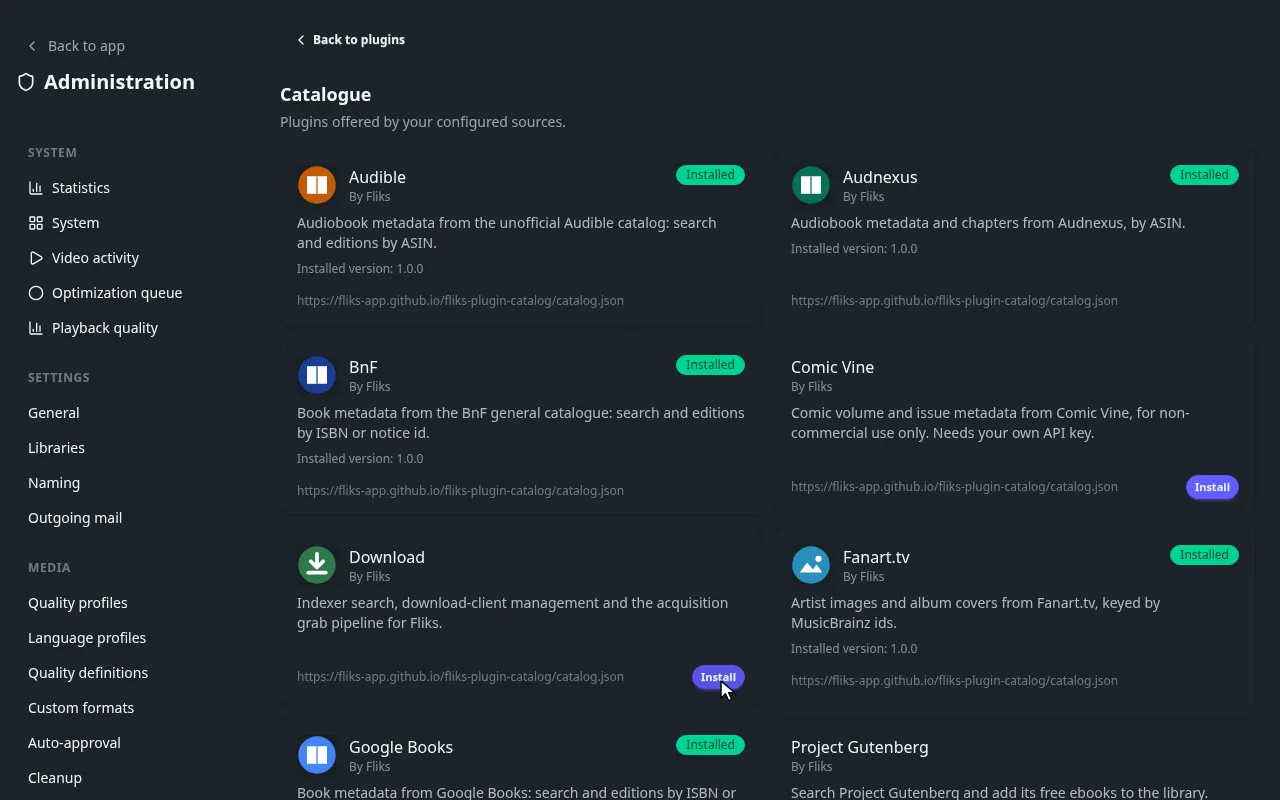
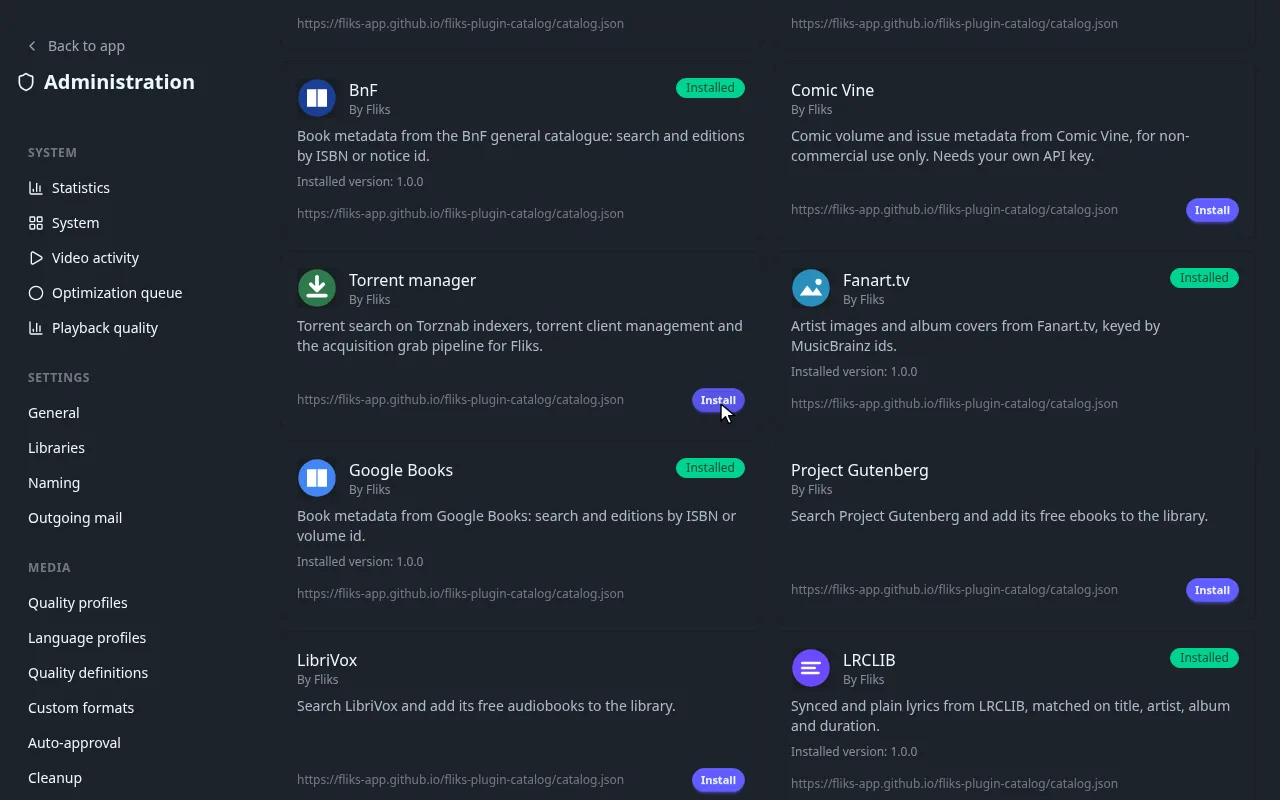
docs(downloads): list the download plugin pages under their own sub-heading (#22)
* docs(downloads): list the download plugin pages under their own sub-heading

The Downloads section mixed server pages with plugin pages. A page can now set a frontmatter
group, listed as a sub-heading in the sidebar.

* docs(downloads): call the plugin Torrent manager

The plugin is renamed in its 3.1.0 release; its admin sidebar section follows the name.

* docs(downloads): re-shoot the screenshots that showed the old plugin name

The admin sidebar, plugin page, catalogue card and consent dialog now read Torrent manager.

diff --git a/src/app/layout/sidebar/sidebar.html b/src/app/layout/sidebar/sidebar.html
@@ -16,8 +16,13 @@
               ></svg>
             </summary>
             <ul class="my-1 ms-3 flex flex-col gap-px border-s border-base-300">
-              @for (page of section.pages; track page.url) {
-                <li>
+              @for (page of section.pages; track page.url; let i = $index) {
+                @if (page.subgroup && page.subgroup !== section.pages[i - 1]?.subgroup) {
+                  <li class="mt-2 ps-3 pb-0.5 text-xs font-semibold uppercase tracking-wide text-base-content/50">
+                    {{ page.subgroup }}
+                  </li>
+                }
+                <li [class.ms-3]="page.subgroup">
                   <a
                     [routerLink]="page.url"
                     class="-ms-px block border-s-2 py-1 ps-3 pe-2 leading-snug transition-colors"

diff --git a/src/content/07-downloads/11-indexers.md b/src/content/07-downloads/11-indexers.md
@@ -1,10 +1,11 @@
 ---
-title: Download indexers
-description: Add the trackers the Download plugin searches, by importing them from Prowlarr or Jackett or by typing a Torznab address.
+title: Indexers
+group: Torrent manager
+description: Add the trackers Torrent manager searches, by importing them from Prowlarr or Jackett or by typing a Torznab address.
 ---
 
 > [!SUMMARY]
-> An indexer is a Torznab address the Download plugin searches. The shortest path: in **Settings > Download > Indexer sources**, connect your Prowlarr or Jackett once and every tracker comes in. With a single Torznab address, add the indexer by hand instead. Both end in **Settings > Download > Indexers**.
+> An indexer is a Torznab address Torrent manager searches. The shortest path: in **Settings > Torrent manager > Indexer sources**, connect your Prowlarr or Jackett once and every tracker comes in. With a single Torznab address, add the indexer by hand instead. Both end in **Settings > Torrent manager > Indexers**.
 
 An **indexer** is a Torznab endpoint: a web address and an API key that answer "which releases match this title". The plugin queries every enabled indexer, in parallel, each time it searches. An imported indexer is an ordinary row you can edit, disable or delete.
 
@@ -30,7 +31,7 @@ If you changed Prowlarr's **URL Base** or Jackett's **Base path override**, add 
 
 ## Import from Prowlarr or Jackett
 
-Open **Settings > Download > Indexer sources**. A source is a saved connection to Prowlarr or Jackett: it holds the way to read trackers, not the trackers.
+Open **Settings > Torrent manager > Indexer sources**. A source is a saved connection to Prowlarr or Jackett: it holds the way to read trackers, not the trackers.
 
 ### Prowlarr
 
@@ -45,7 +46,7 @@ You need its address and its API key (in Prowlarr, **Settings > General > Securi
 Then connect Fliks:
 
 :::steps
-![In Fliks, **Settings > Download > Indexer sources**, click **New source**](/img/download-source-prowlarr-1-new.webp)
+![In Fliks, **Settings > Torrent manager > Indexer sources**, click **New source**](/img/download-source-prowlarr-1-new.webp)
 ![Name it, keep **Type** on **Prowlarr**, type the **Base URL** and paste the **API key**, then **Test connection**](/img/download-source-prowlarr-2-form.webp)
 ![**Indexer list read, connection OK** means both are right. Click **Save**](/img/download-source-prowlarr-3-test.webp)
 ![Saving imports straight away. **Import the indexers** reads the list again later](/img/download-source-prowlarr-4-saved.webp)
@@ -113,7 +114,7 @@ With a password you can also remove it in Jackett (empty **Admin password**, **S
 Use this for a tracker with its own Torznab address, for Jackett with a password, or to test. You need the **Base URL** of the feed and its **API key**. In Jackett, **Copy Torznab Feed** on the tracker's row gives the URL.
 
 :::steps
-![In **Settings > Download > Indexers**, click **New indexer**](/img/download-indexer-manual-1-new.webp)
+![In **Settings > Torrent manager > Indexers**, click **New indexer**](/img/download-indexer-manual-1-new.webp)
 ![Type a **Name**, the **Base URL** of the Torznab feed and the **API key**](/img/download-indexer-manual-2-form.webp)
 ![Adjust the other options if needed, then click **Test connection**](/img/download-indexer-manual-3-options.webp)
 ![**Capabilities read, connection OK**: click **Save**](/img/download-indexer-manual-4-test.webp)

diff --git a/src/content/07-downloads/10-plugin.md b/src/content/07-downloads/10-plugin.md
@@ -1,10 +1,11 @@
 ---
-title: Download plugin
-description: What the Download plugin does, what to set up before it can fetch anything, and how a request turns into a file in your library.
+title: Set up the plugin
+group: Torrent manager
+description: What Torrent manager does, what to set up before it can fetch anything, and how a request turns into a file in your library.
 ---
 
 > [!SUMMARY]
-> The Download plugin turns an approved request into a file in your library: it searches your indexers, picks the best release, hands it to your download client and files the result. Install it from **Settings > Plugins** once the [setup order](/downloads/overview#order-to-set-things-up) is done. Without it requests stay approved forever.
+> Torrent manager turns an approved request into a file in your library: it searches your indexers, picks the best release, hands it to your download client and files the result. Install it from **Settings > Plugins** once the [setup order](/downloads/overview#order-to-set-things-up) is done. Without it requests stay approved forever.
 
 Its pages: [Indexers](/downloads/indexers), [Download clients](/downloads/download-clients), [Settings](/downloads/plugin-settings), [Troubleshooting](/downloads/troubleshooting).
 
@@ -18,7 +19,7 @@ Install it from the catalogue with the admin account. Keep **Reach services on t
 
 :::steps
 ![Open **Settings > Advanced > Plugins** and click **Search for a plugin**](/img/download-install-1-plugins.webp)
-![Click **Install** on the **Download** card](/img/download-install-2-catalogue.webp)
+![Click **Install** on the **Torrent manager** card](/img/download-install-2-catalogue.webp)
 ![Read the consent list, then click **Install**](/img/download-install-3-consent.webp)
 :::
 
@@ -30,14 +31,14 @@ Trust badges and sources are in [Plugins](/administration/plugins).
 | What | Where |
 |---|---|
 | The plugin card, **Disable**, **Export**, **Uninstall** | **Settings > Advanced > Plugins**, click **Download** |
-| General options | **Settings > Download > General** |
-| Indexers and indexer sources | **Settings > Download > Indexers** and **Indexer sources** |
-| Download clients | **Settings > Download > Download clients** |
+| General options | **Settings > Torrent manager > General** |
+| Indexers and indexer sources | **Settings > Torrent manager > Indexers** and **Indexer sources** |
+| Download clients | **Settings > Torrent manager > Download clients** |
 | Provider order and search interval | **Settings > Downloads**, see [Downloads](/downloads/automatic-search) |
 | Requests, queue, history, calendar | **Downloads** section of the main sidebar |
 | Search for a release yourself | A title's **⋮** menu, **Files** |
 
-![The Download plugin page, with Disable, Export and Uninstall](/img/download-plugin-page.webp)
+![Torrent manager page, with Disable, Export and Uninstall](/img/download-plugin-page.webp)
 
 > [!WARNING]
 > The **Downloads** item under **Library** in the main sidebar is something else: it lists the

diff --git a/src/content/07-downloads/13-plugin-settings.md b/src/content/07-downloads/13-plugin-settings.md
@@ -1,17 +1,18 @@
 ---
-title: Download settings
-description: Every option of the Download plugin, with its default: search time, stalled-download cleanup, seeding, cooldowns and where each one lives.
+title: Plugin settings
+group: Torrent manager
+description: Every option of Torrent manager, with its default: search time, stalled-download cleanup, seeding, cooldowns and where each one lives.
 ---
 
 > [!SUMMARY]
-> The Download plugin has few options of its own: pause automatic downloads, how long a search waits, and optional stalled-download cleanup, all in **Settings > Download > General**. Everything else lives on indexers, clients, profiles and **Settings > Downloads**.
+> Torrent manager has few options of its own: pause automatic downloads, how long a search waits, and optional stalled-download cleanup, all in **Settings > Torrent manager > General**. Everything else lives on indexers, clients, profiles and **Settings > Downloads**.
 
 The plugin's own options are few. Most of what changes its behaviour sits in four places:
 
 :::details Where each download option lives
 | Where | What it holds |
 |---|---|
-| **Settings > Download > General** | The options on this page: pause, search time, stalled-download cleanup. |
+| **Settings > Torrent manager > General** | The options on this page: pause, search time, stalled-download cleanup. |
 | [Indexers](/downloads/indexers#indexer-options) | Per tracker: request delay, which searches use it, minimum seeders, seeding limits, priority. |
 | [Download clients](/downloads/download-clients#client-options) | Per client: address, categories, priority. |
 | **Settings > Downloads** | Fliks's own search schedule and provider order, see [Downloads](/downloads/automatic-search). |
@@ -23,7 +24,7 @@ the [quality definitions](/downloads/quality-definitions) and the
 
 ## General
 
-Open **Settings > Download > General** and click **Save** after any change.
+Open **Settings > Torrent manager > General** and click **Save** after any change.
 
 ### Search
 

diff --git a/src/content/07-downloads/12-download-clients.md b/src/content/07-downloads/12-download-clients.md
@@ -1,10 +1,11 @@
 ---
 title: Download clients
-description: Connect qBittorrent or Transmission to the Download plugin, and share the download folder so Fliks can import what the client fetched.
+group: Torrent manager
+description: Connect qBittorrent or Transmission to Torrent manager, and share the download folder so Fliks can import what the client fetched.
 ---
 
 > [!SUMMARY]
-> Add qBittorrent or Transmission in **Settings > Download > Download clients**: host, port, username and password, then **Test connection**. The one mistake to avoid: the client's save folder must be mounted under the same path in both containers (see The shared folder).
+> Add qBittorrent or Transmission in **Settings > Torrent manager > Download clients**: host, port, username and password, then **Test connection**. The one mistake to avoid: the client's save folder must be mounted under the same path in both containers (see The shared folder).
 
 A **download client** downloads the torrent: **qBittorrent** (Web UI) or **Transmission** 3.0 or later. Fliks sends a release, follows its progress and reads the finished file from the client's download folder, so both must agree on a folder: see [The shared folder](#the-shared-folder) before you click **Save**.
 
@@ -28,7 +29,7 @@ qBittorrent's own options.
 
 ## Add qBittorrent in Fliks
 
-Open **Settings > Download > Download clients**.
+Open **Settings > Torrent manager > Download clients**.
 
 :::steps
 ![Click **New download client**](/img/download-client-qbit-1-new.webp)

diff --git a/src/content/07-downloads/14-troubleshooting.md b/src/content/07-downloads/14-troubleshooting.md
@@ -1,5 +1,6 @@
 ---
-title: Download troubleshooting
+title: Plugin troubleshooting
+group: Torrent manager
 description: Why a title is not downloading, what each test message and queue state means, and how to fix the usual setup mistakes.
 ---
 
@@ -14,7 +15,7 @@ Check these in order, on the title that does not move.
 2. **The title is monitored and has a quality profile.** A title with no
    [quality profile](/downloads/quality-profiles) is never searched. Set the library's defaults, see
    [What you need first](/downloads/plugin#what-you-need-first).
-3. **Automatic downloads are not paused.** **Settings > Download > General**, **Pause automatic downloads** is off.
+3. **Automatic downloads are not paused.** **Settings > Torrent manager > General**, **Pause automatic downloads** is off.
 4. **An indexer is active** and its **Use for** includes **Automatic searches**, and **a download client is active.**
    Without a client the grab fails with *No enabled download client is configured*.
 5. **A release exists.** On the title, **⋮ > Files > Search manually**. If the list is empty, the indexers found

diff --git a/src/content/07-downloads/01-overview.md b/src/content/07-downloads/01-overview.md
@@ -19,7 +19,7 @@ description: Who needs the optional download side of Fliks, who can skip it, and
 3. Pick both as the defaults of your library: **Settings > Libraries**, open the library, **Default quality profile** and **Default language profile**. A title with no quality profile is never searched. See [Quality and language profiles](/features/libraries#quality-and-language-profiles).
 
    ![The library settings: Default quality profile and Default language profile](/img/download-library-profiles.webp)
-4. [Download plugin](/downloads/plugin): install it, nothing is downloaded without it.
+4. [Torrent manager](/downloads/plugin): install it, nothing is downloaded without it.
 5. [Indexers](/downloads/indexers): where releases are searched.
 6. [Download client](/downloads/download-clients): qBittorrent or Transmission, and the shared folder.
 7. [Requests](/downloads/requests): how people ask for titles and who approves them.

diff --git a/src/content/06-administration/02-settings.md b/src/content/06-administration/02-settings.md
@@ -42,7 +42,7 @@ The entry needs the `settings.access` permission and never shows on a TV. These 
 | [Auto-approval](/downloads/auto-approval) | Rules that approve [requests](/downloads/requests) automatically. |
 | [Cleanup](/administration/library-cleanup) | Rules that flag and remove stale media. Destructive. |
 | [Metadata](/administration/metadata-settings) | Metadata providers and the order they are asked in. |
-| [Downloads](/downloads/automatic-search) | Provider order and how often missing titles are searched. Needs the [Download plugin](/downloads/plugin). |
+| [Downloads](/downloads/automatic-search) | Provider order and how often missing titles are searched. Needs the [Torrent manager](/downloads/plugin). |
 | [Lyrics](/administration/lyrics-and-karaoke#lyrics) | Automatic lyrics for music libraries. |
 | [Karaoke](/administration/lyrics-and-karaoke#karaoke) | Voice separation and word-by-word lyrics. |
 

diff --git a/src/content/07-downloads/07-automatic-search.md b/src/content/07-downloads/07-automatic-search.md
@@ -1,10 +1,10 @@
 ---
-title: Downloads
+title: Automatic search
 description: Choose which download provider is asked first, how often missing and upgradable titles are searched, and what happens to extra album tracks.
 ---
 
 > [!SUMMARY]
-> **Settings > Downloads** sets the order of download providers, how often Fliks searches for missing or upgradable titles (every 6 hours by default) and what to do with unrequested album tracks. Only for [requests](/downloads/requests) or the Download plugin: Fliks itself never downloads, a provider plugin does.
+> **Settings > Downloads** sets the order of download providers, how often Fliks searches for missing or upgradable titles (every 6 hours by default) and what to do with unrequested album tracks. Only for [requests](/downloads/requests) or Torrent manager: Fliks itself never downloads, a provider plugin does.
 
 ## Set the automatic search
 

diff --git a/src/content/07-downloads/05-requests.md b/src/content/07-downloads/05-requests.md
@@ -4,7 +4,7 @@ description: Let household members ask for a title to be added, or for one to be
 ---
 
 > [!SUMMARY]
-> A request lets someone ask for a title without adding it to the library themselves. Search for it, click request, choose the library and profiles, then someone with **Manage requests** approves it (or an [auto-approval rule](/downloads/auto-approval) does). Actually fetching the file needs the [Download plugin](/downloads/plugin).
+> A request lets someone ask for a title without adding it to the library themselves. Search for it, click request, choose the library and profiles, then someone with **Manage requests** approves it (or an [auto-approval rule](/downloads/auto-approval) does). Actually fetching the file needs the [Torrent manager](/downloads/plugin).
 
 ## Request a title
 

diff --git a/src/content/07-downloads/02-quality-profiles.md b/src/content/07-downloads/02-quality-profiles.md
@@ -4,7 +4,7 @@ description: Choose which release qualities Fliks may download for a title, how 
 ---
 
 > [!SUMMARY]
-> A quality profile says which release qualities Fliks may download for a title and when it stops looking for something better. Needed only for [requests](/downloads/requests) or the Download plugin: playback never reads it. Create one in **Settings > Quality profiles**: a name, a cutoff, and the qualities you accept.
+> A quality profile says which release qualities Fliks may download for a title and when it stops looking for something better. Needed only for [requests](/downloads/requests) or Torrent manager: playback never reads it. Create one in **Settings > Quality profiles**: a name, a cutoff, and the qualities you accept.
 
 ## Create a quality profile
 

diff --git a/src/content/07-downloads/03-quality-definitions.md b/src/content/07-downloads/03-quality-definitions.md
@@ -4,7 +4,7 @@ description: Set the minimum, preferred and maximum file size of each quality, w
 ---
 
 > [!SUMMARY]
-> Quality definitions give each quality a minimum, preferred and maximum file size, so searches can refuse fake or bloated releases. Needed only for [requests](/downloads/requests) or the Download plugin, and the defaults are sensible: change a range only when releases are refused for being too small or too large.
+> Quality definitions give each quality a minimum, preferred and maximum file size, so searches can refuse fake or bloated releases. Needed only for [requests](/downloads/requests) or Torrent manager, and the defaults are sensible: change a range only when releases are refused for being too small or too large.
 
 ## What a quality definition does
 
